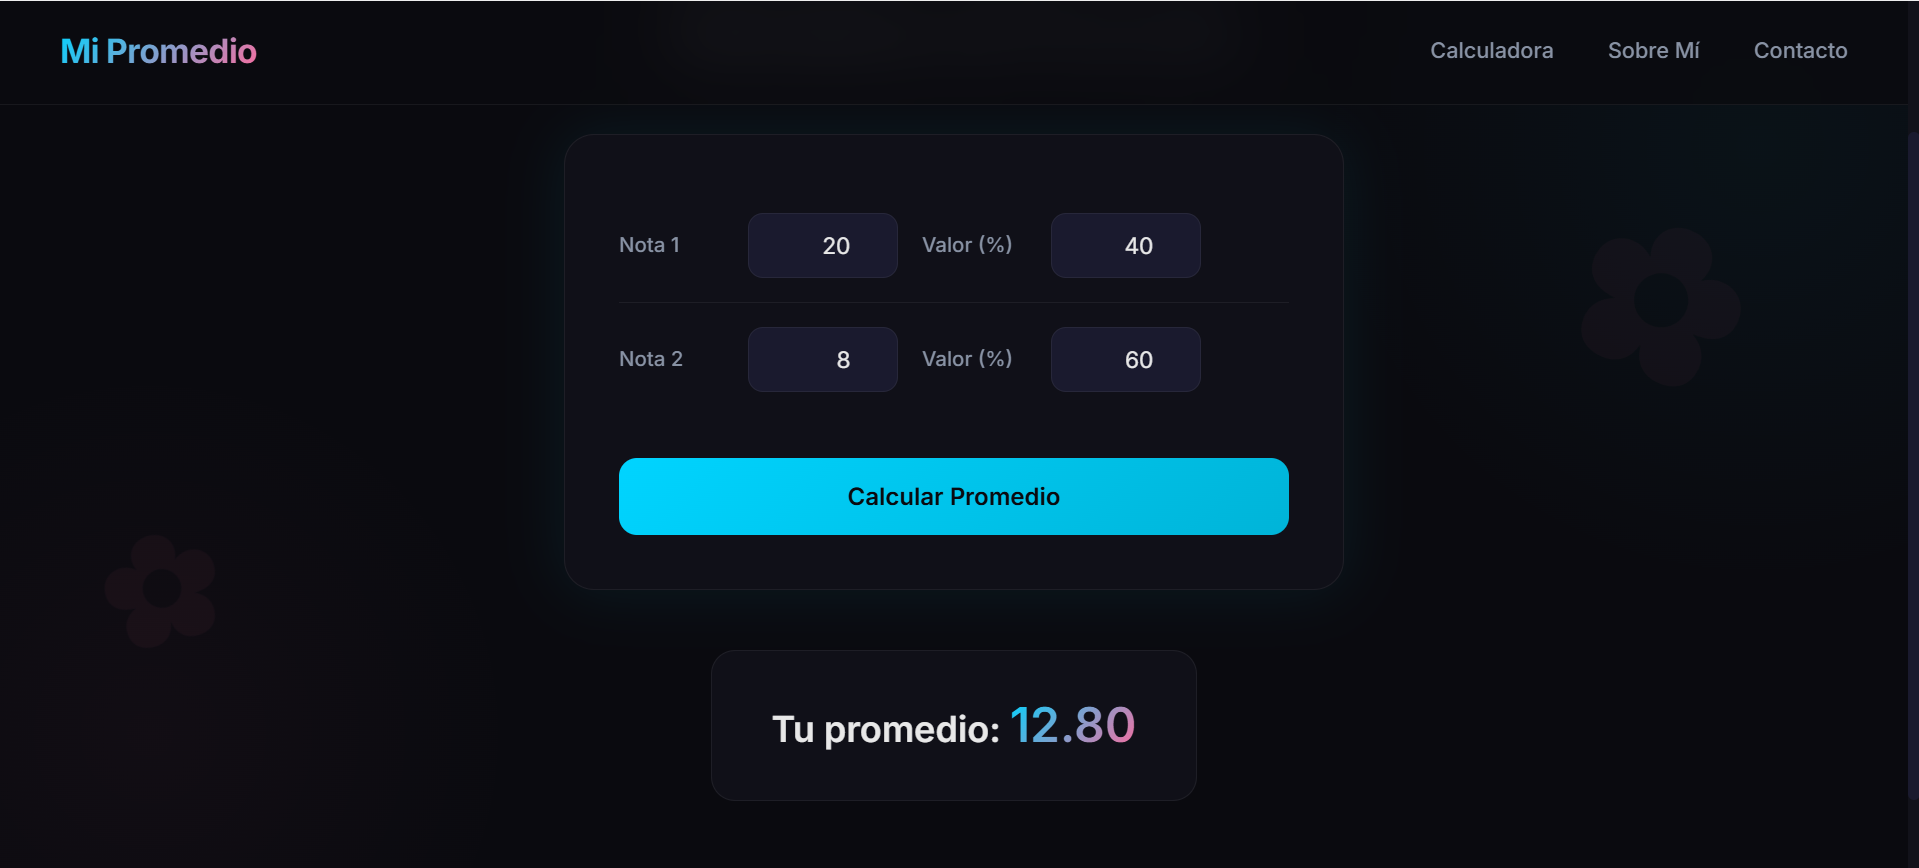
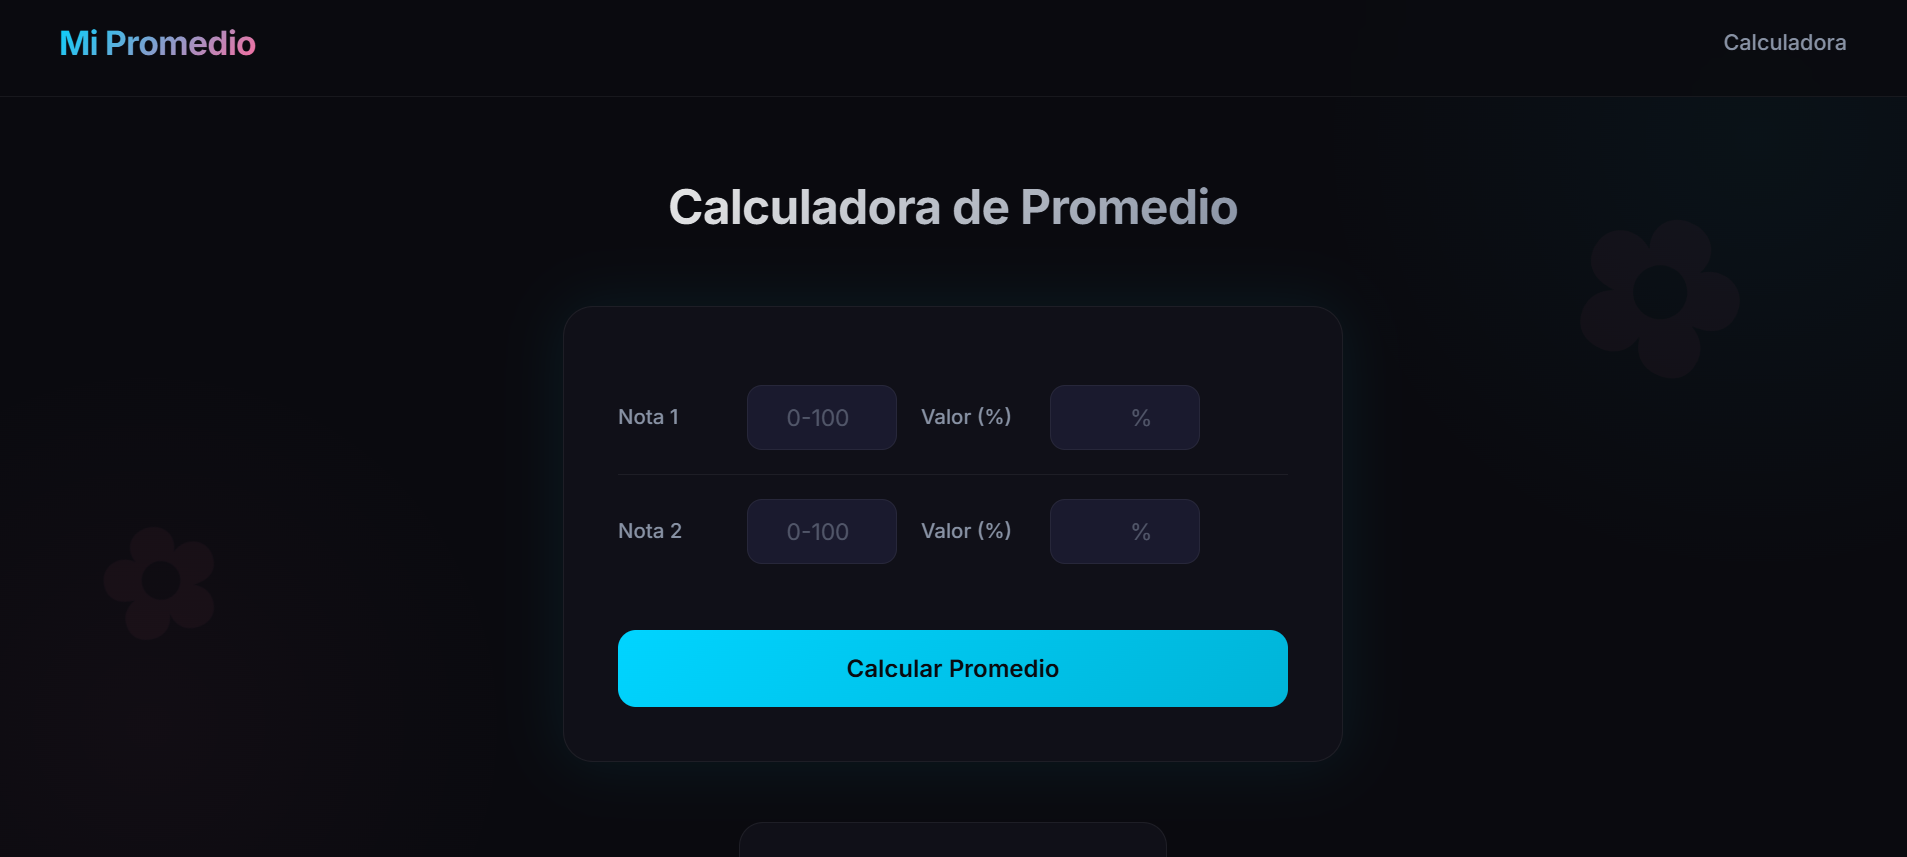
Renombrar imagen y eliminar antigua

diff --git a/README.md b/README.md
@@ -49,7 +49,7 @@ No se requieren variables de entorno. La aplicación es estática y funciona sin
 
 ## Captura de Pantalla
 
-![Mi Promedio - Calculadora de Promedio](docs/screenshots/brave_screenshot.png)
+![Mi Promedio - Calculadora de Promedio](docs/screenshots/promedio.png)
 
 ## Estructura de Carpetas
 
